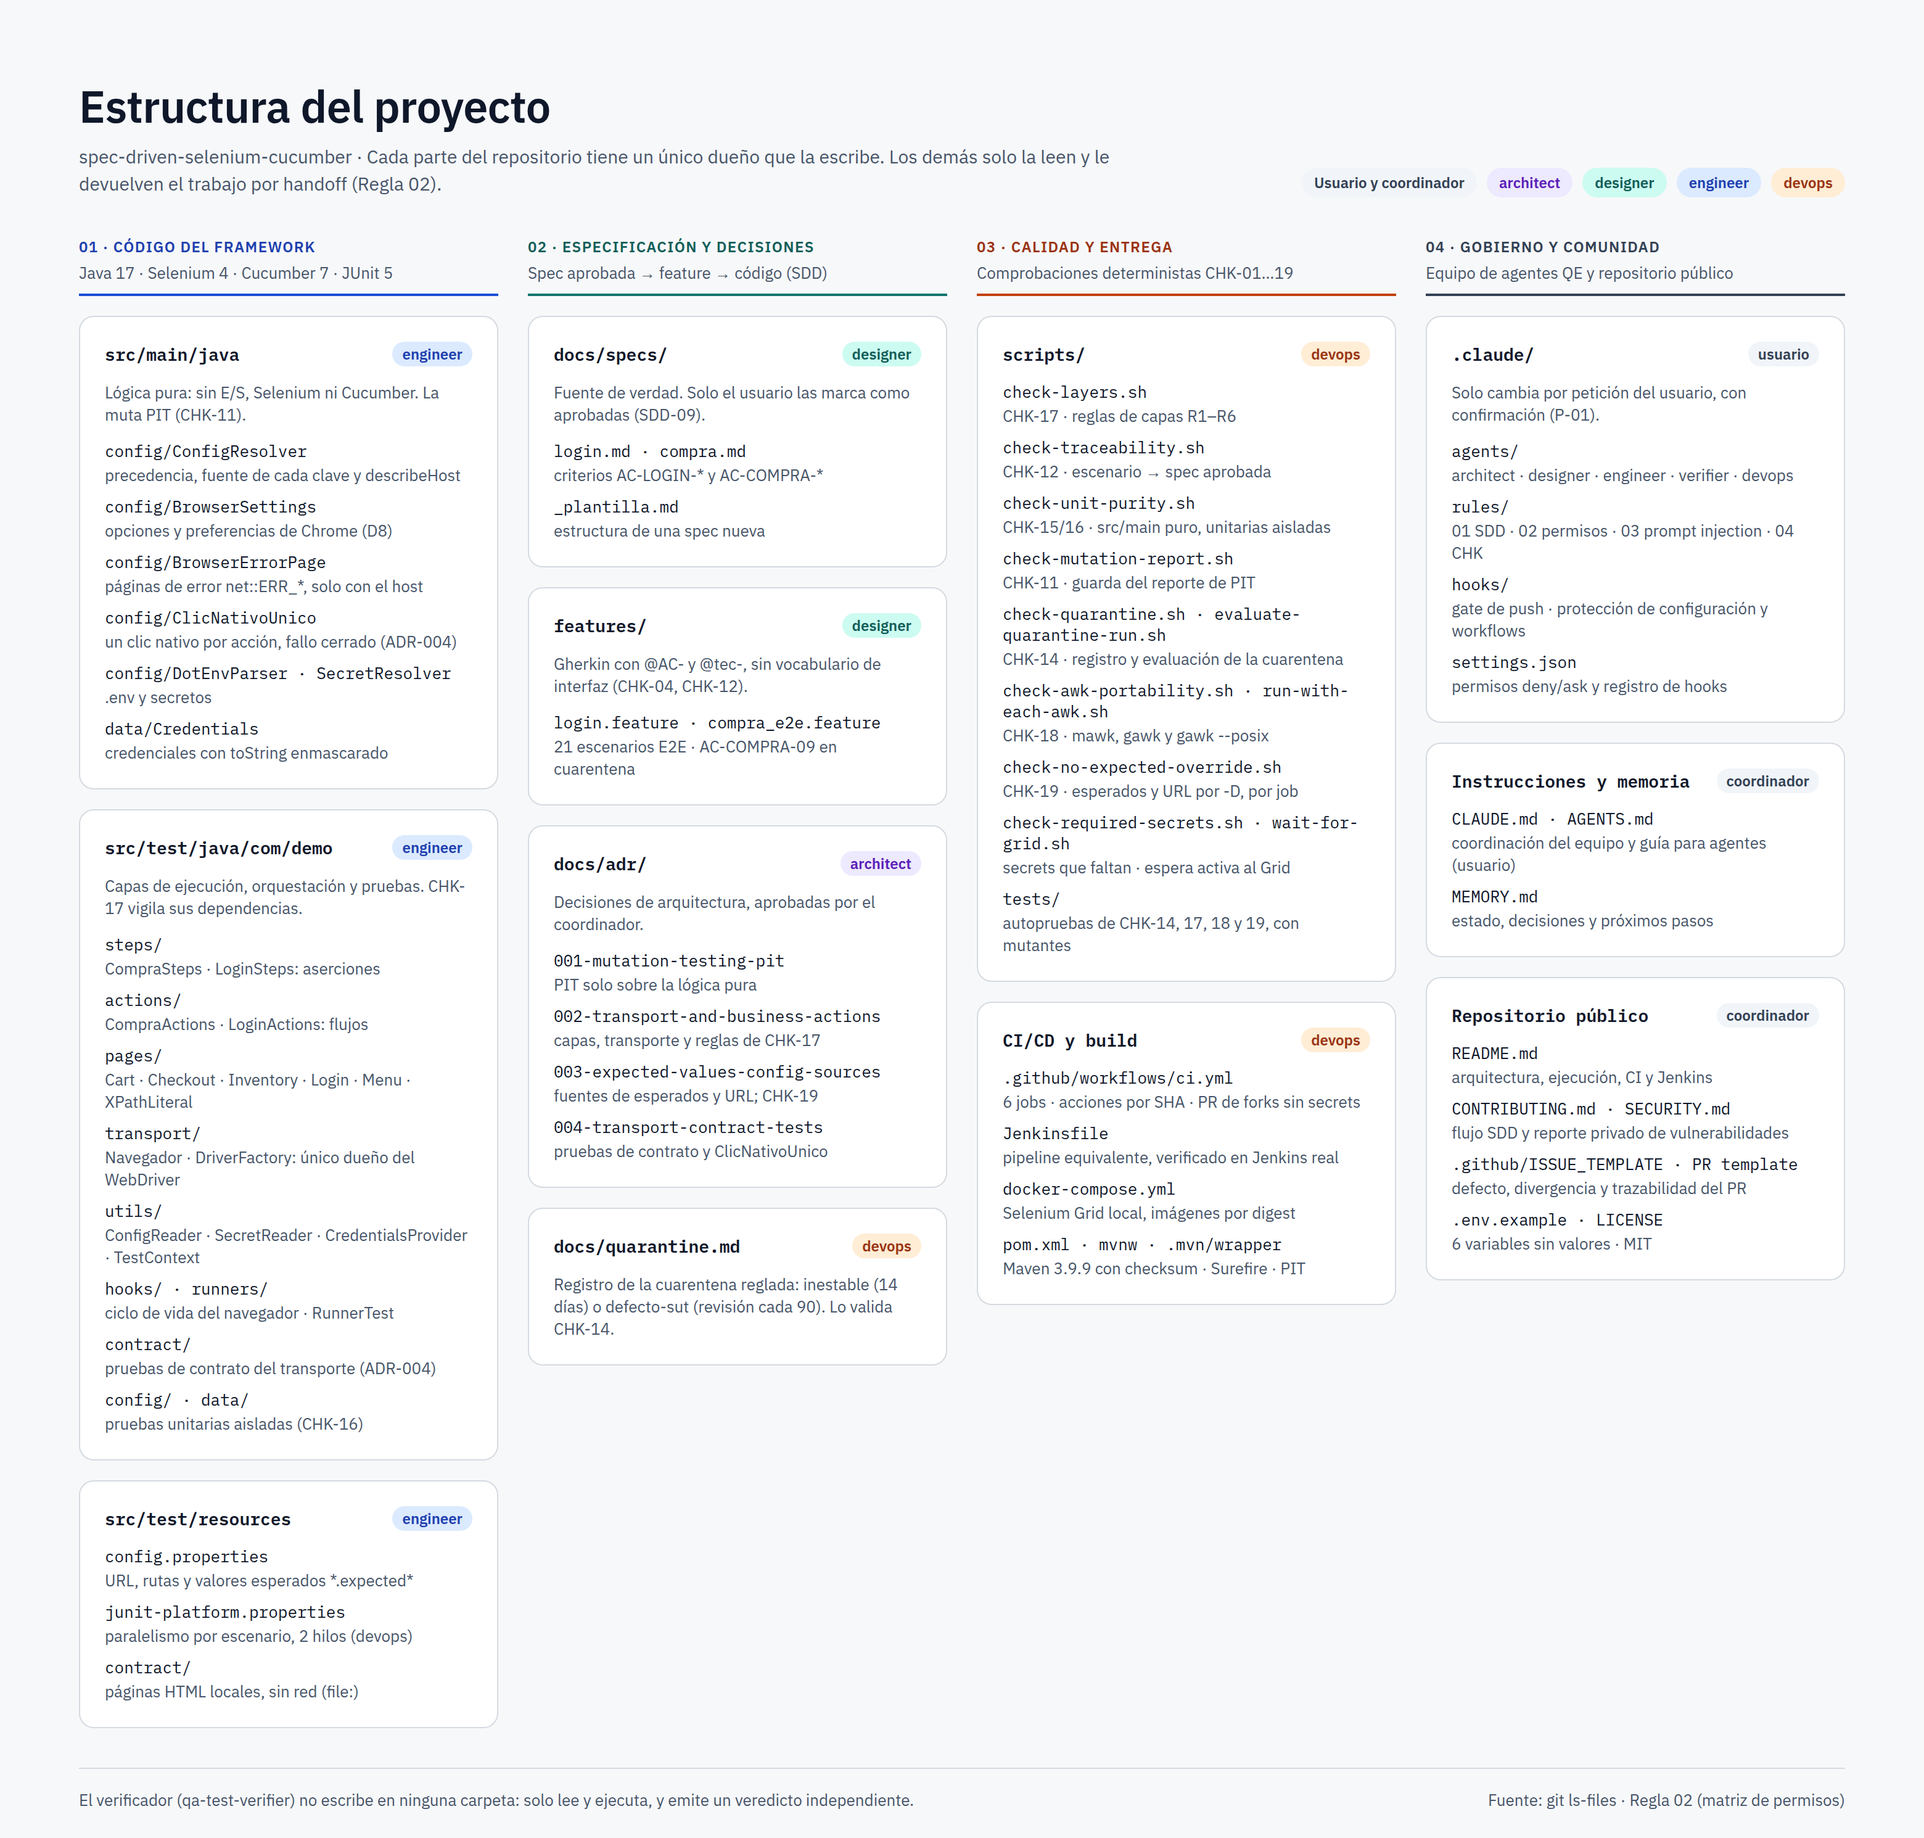
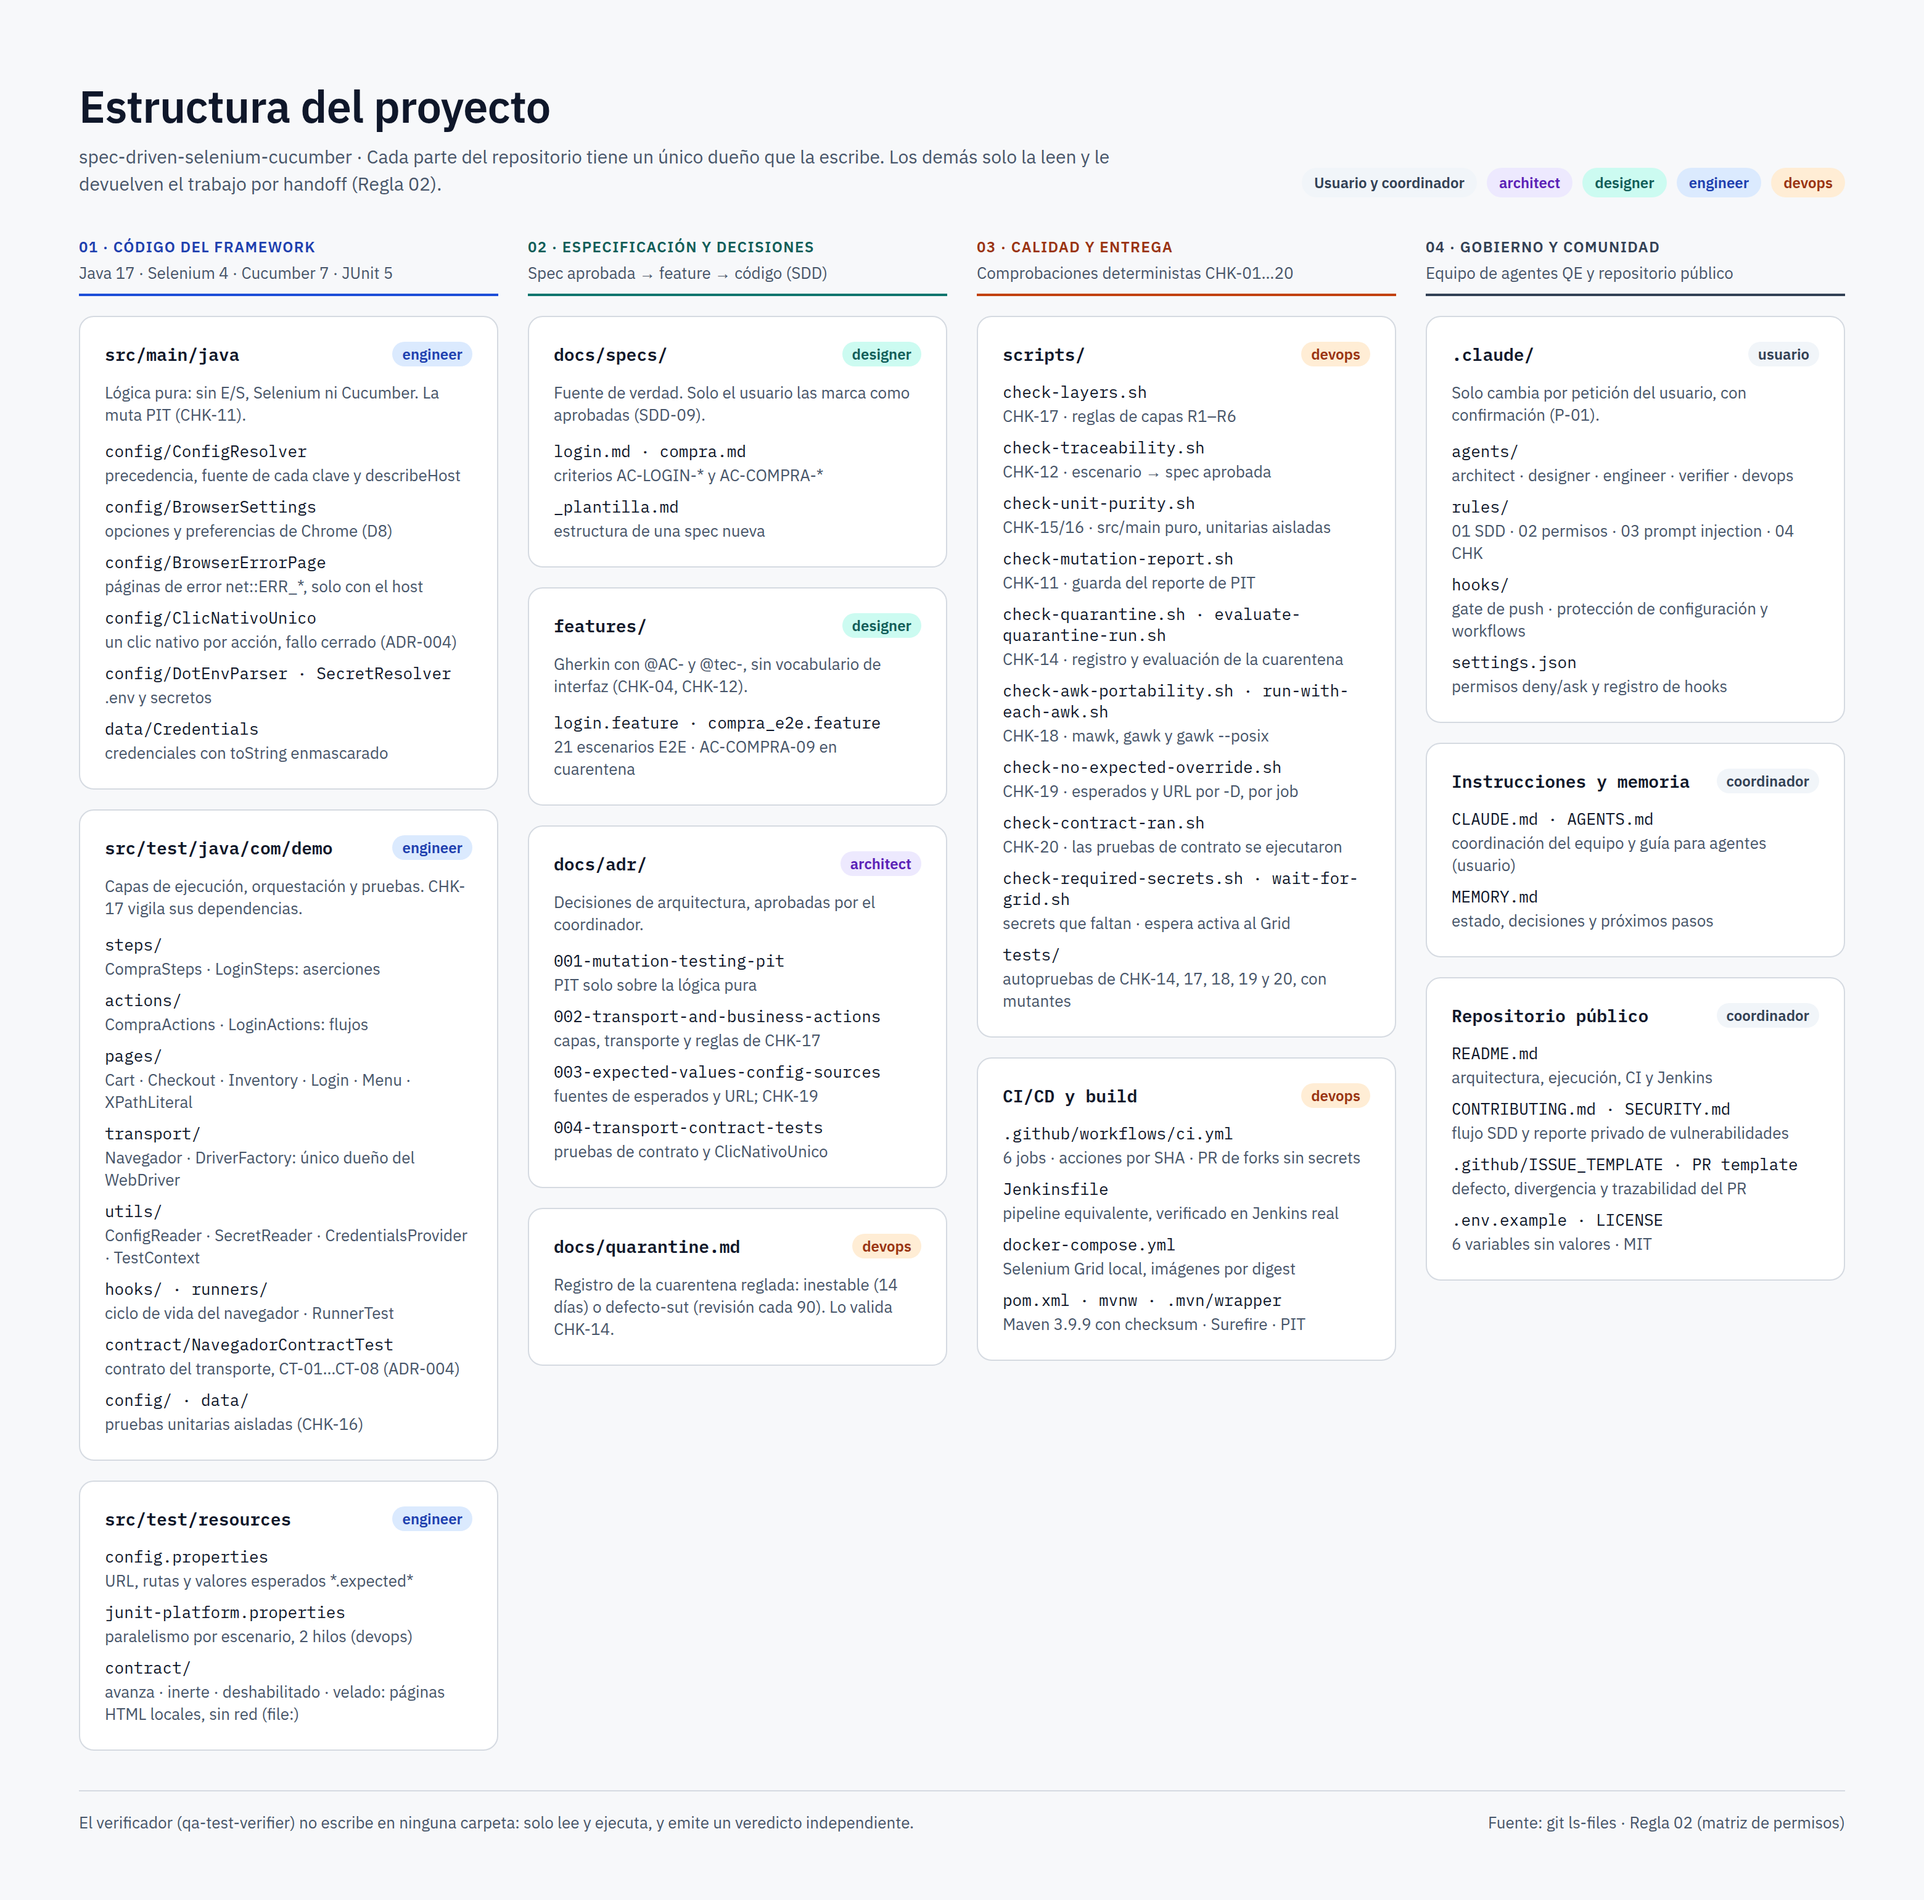
docs(readme): vista de diseño de la estructura con CHK-20 y el contrato del transporte
La lámina suma check-contract-ran.sh (CHK-20), las autopruebas de CHK-20,
NavegadorContractTest (CT-01…CT-08) y los nombres de las páginas locales;
la imagen se regenera a 3120×3080 con margen inferior. A petición del
usuario.

diff --git a/README.md b/README.md
@@ -495,7 +495,7 @@ La misma estructura, organizada en cuatro bloques, con la etiqueta del dueño de
   </a>
 </p>
 
-> Haz clic en la imagen para verla a tamaño completo (3120×2980).
+> Haz clic en la imagen para verla a tamaño completo (3120×3080).
 
 ## Decisiones de arquitectura
 
